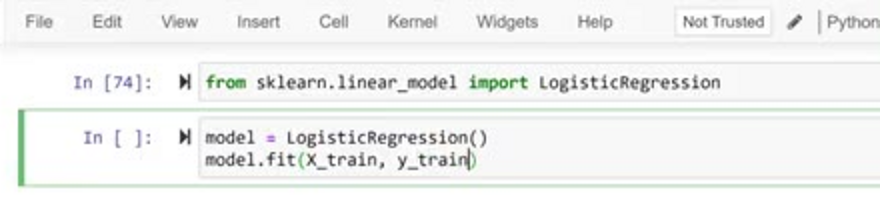
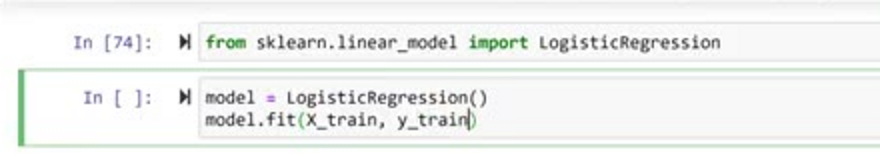
Tighten logistic fit screenshot crop

diff --git a/.tmp/ml-classification-rollout-10-14.md b/.tmp/ml-classification-rollout-10-14.md
@@ -13,6 +13,10 @@ use the built-in imagegen workflow after source inspection.
   light unsharp; preserved the import, model construction, and `fit` call;
   removed notebook/browser frame and camera tile.
 
+Correction: replaced the first crop with a tighter source crop
+`(15,52,440,84)` to remove the remaining Jupyter menu bar while preserving
+both code cells and their exact text.
+
 - `10-training-log-reg-02-coefficients.jpg` →
   `10-training-log-reg-02-coefficients-cropped.png` — deterministic composite
   of the intercept crop `(15,32,440,52)` and coefficient crop
